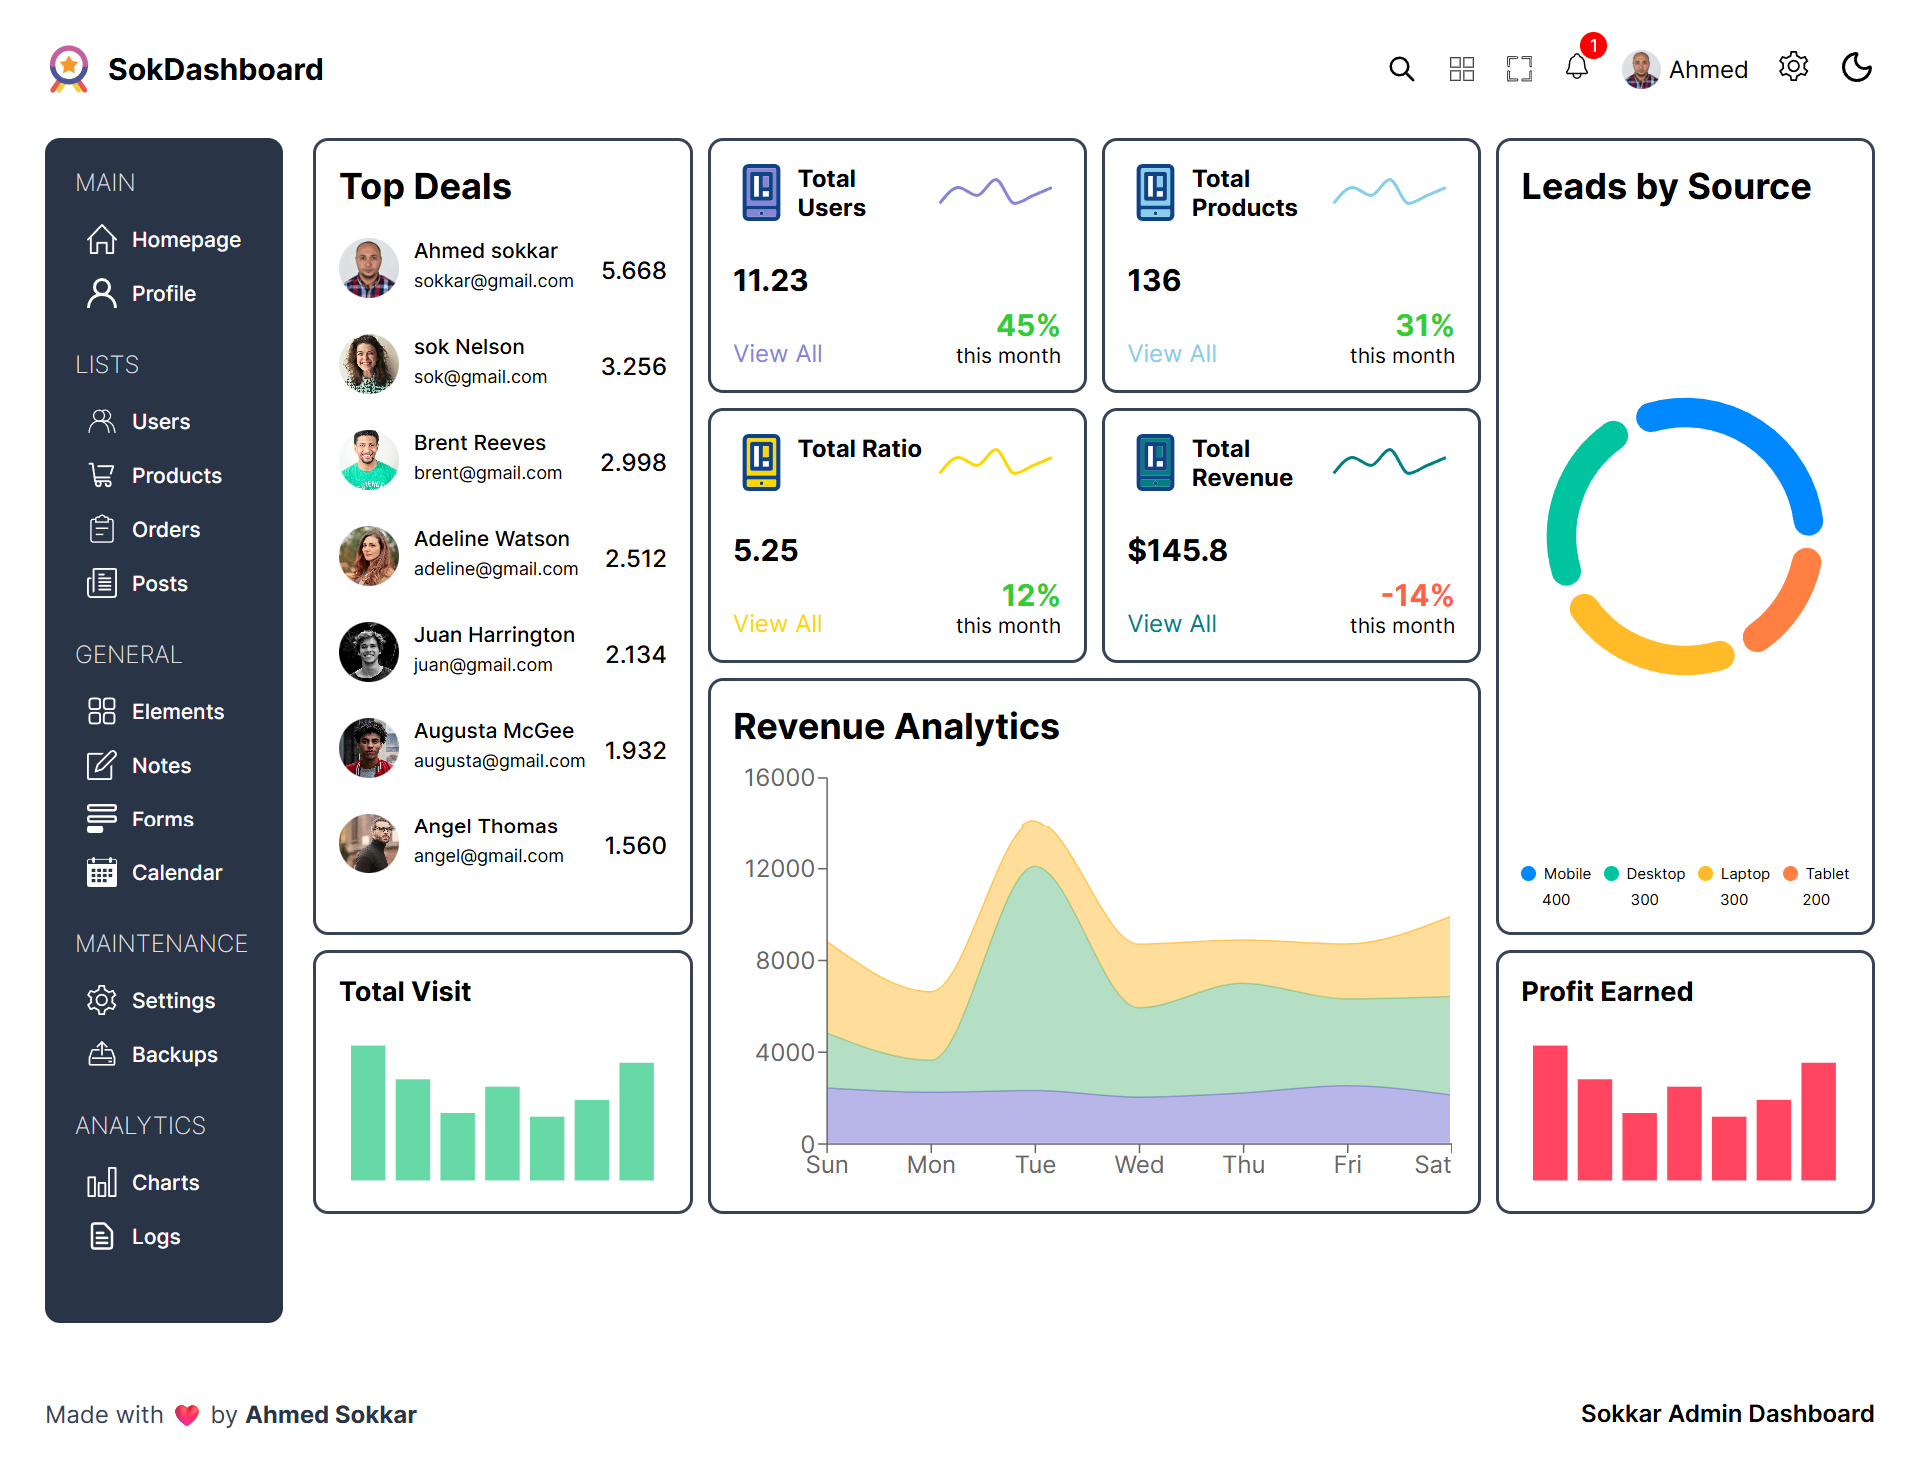
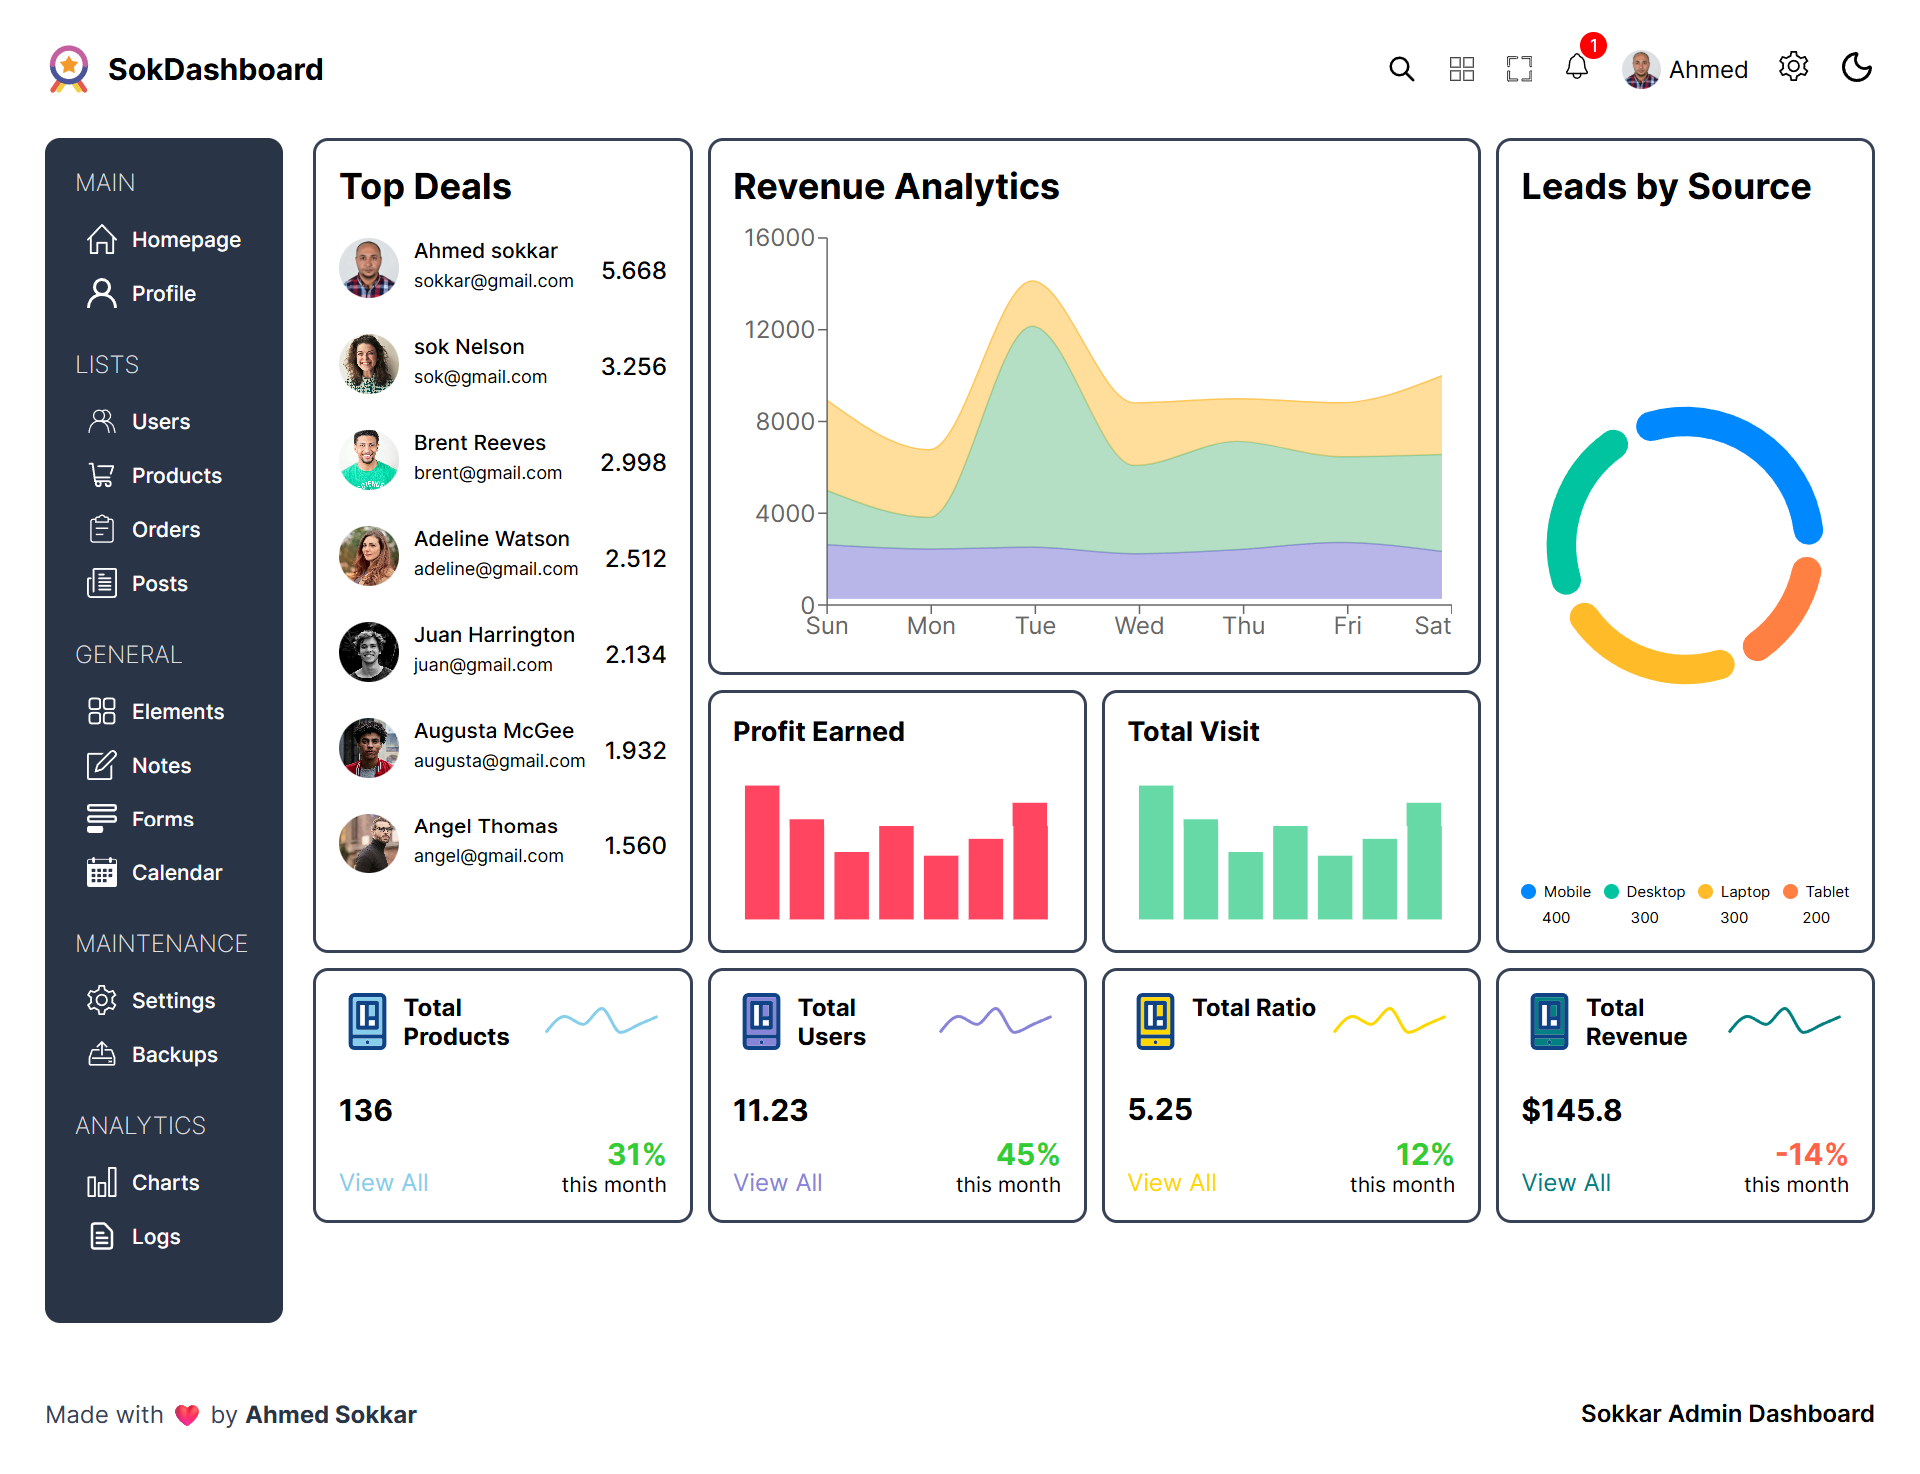
modifying for some files

diff --git a/src/pages/home/Home.tsx b/src/pages/home/Home.tsx
@@ -39,47 +39,48 @@ const Home = () => {
 
       <div className="box box2">
         <Suspense fallback={<BoxSkeleton />}>
-          <LineChartBox {...lineChartBoxUser} />
+          <AreaChartBox />
         </Suspense>
       </div>
 
       <div className="box box3">
         <Suspense fallback={<BoxSkeleton />}>
-          <LineChartBox {...lineChartBoxProduct} />
+          <PieChartBox />
         </Suspense>
       </div>
 
       <div className="box box4">
         <Suspense fallback={<BoxSkeleton />}>
-          <PieChartBox />
+          <BarChartBox {...barChartBoxRevenue} />
         </Suspense>
       </div>
 
       <div className="box box5">
         <Suspense fallback={<BoxSkeleton />}>
-          <LineChartBox {...lineChartBoxConversion} />
+          <BarChartBox {...barChartBoxVisit} />
         </Suspense>
       </div>
 
       <div className="box box6">
         <Suspense fallback={<BoxSkeleton />}>
-          <LineChartBox {...lineChartBoxRevenue} />
+          <LineChartBox {...lineChartBoxProduct} />
         </Suspense>
       </div>
 
       <div className="box box7">
-        <AreaChartBox />
-        <Suspense fallback={<BoxSkeleton />}></Suspense>
+        <Suspense fallback={<BoxSkeleton />}>
+          <LineChartBox {...lineChartBoxUser} />
+        </Suspense>
       </div>
       <div className="box box8">
         <Suspense fallback={<BoxSkeleton />}>
-          <BarChartBox {...barChartBoxVisit} />
+          <LineChartBox {...lineChartBoxConversion} />
         </Suspense>
       </div>
 
       <div className="box box9">
         <Suspense fallback={<BoxSkeleton />}>
-          <BarChartBox {...barChartBoxRevenue} />
+          <LineChartBox {...lineChartBoxRevenue} />
         </Suspense>
       </div>
     </div>

diff --git a/src/App.tsx b/src/App.tsx
@@ -13,7 +13,7 @@ const Products = lazy(() => import("./pages/products/Products"));
 const Users = lazy(() => import("./pages/users/Users"));
 const User = lazy(() => import("./pages/user/User"));
 const Product = lazy(() => import("./pages/product/Product"));
-const NotFound = lazy(() => import("./pages/not-found/NotFound")); // renamed folder to not-found
+const NotFound = lazy(() => import("./pages/not-found/NotFound"));
 
 // Layout component
 const Layout = () => {

diff --git a/index.html b/index.html
@@ -3,7 +3,7 @@
   <head>
     <meta charset="UTF-8" />
     <!-- Favicon -->
-    <link rel="icon" type="image/svg+xml" href="/icons/logo.svg" />
+    <link rel="icon" type="image/svg+xml" href="/logo.svg" />
     <meta name="viewport" content="width=device-width, initial-scale=1.0" />
     <!--  Title -->
     <title>react-admin-dashboard</title>

diff --git a/src/pages/home/home.scss b/src/pages/home/home.scss
@@ -29,17 +29,14 @@
   .box:hover {
     box-shadow: 0 10px 30px rgba(0, 0, 0, 0.15);
   }
-  .box1 {
+
+  .box1,
+  .box3 {
     grid-column: span 1;
     grid-row: span 3;
   }
 
-  .box4 {
-    grid-column: span 1;
-    grid-row: span 3;
-  }
-
-  .box7 {
+  .box2 {
     grid-column: span 2;
     grid-row: span 2;
     @include md {

diff --git a/README.md b/README.md
@@ -13,7 +13,7 @@ Designed with scalability, performance, and clean UI/UX in mind.
 
 ## 📸 Preview
 
-👉 ![Dashboard Preview](src/assets/images/preview-dashboard.png)
+![Dashboard Preview](src/assets/images/preview-dashboard.png)
 
 ---
 
@@ -56,7 +56,7 @@ This project focuses heavily on performance:
 ## 🚀 Getting Started
 
 ```bash
- 1. Clone the repository
+1. Clone the repository
 git clone https://github.com/your-username/your-repo.git
 
 2. Install dependencies
@@ -69,6 +69,7 @@ npm run dev
 npm run build
 
 ////////////////////////////////////////////////////////////
+
 ⭐ Support
 If you like this project, feel free to:
 
